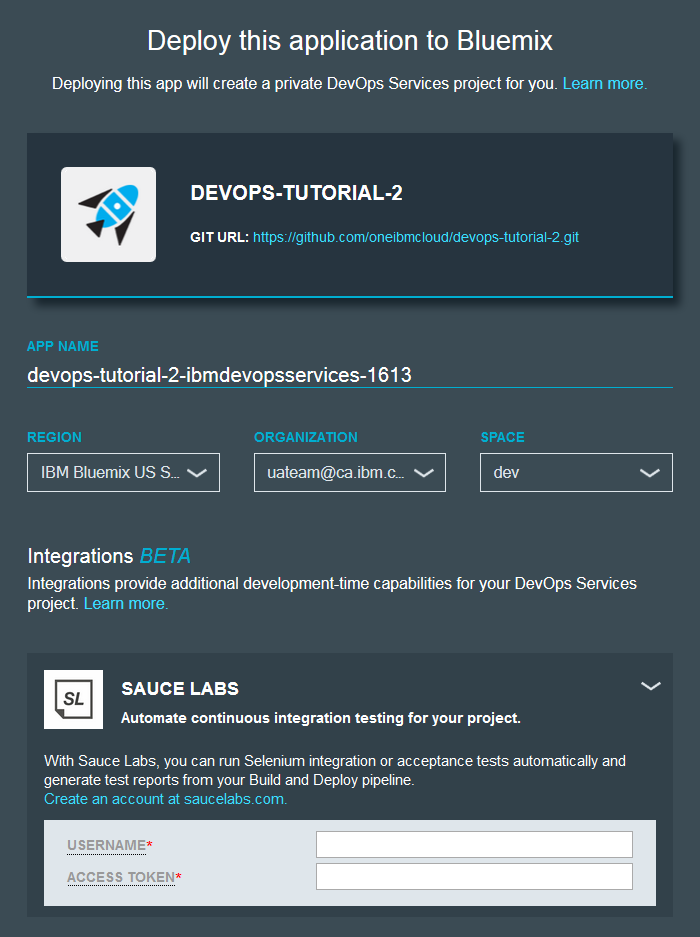
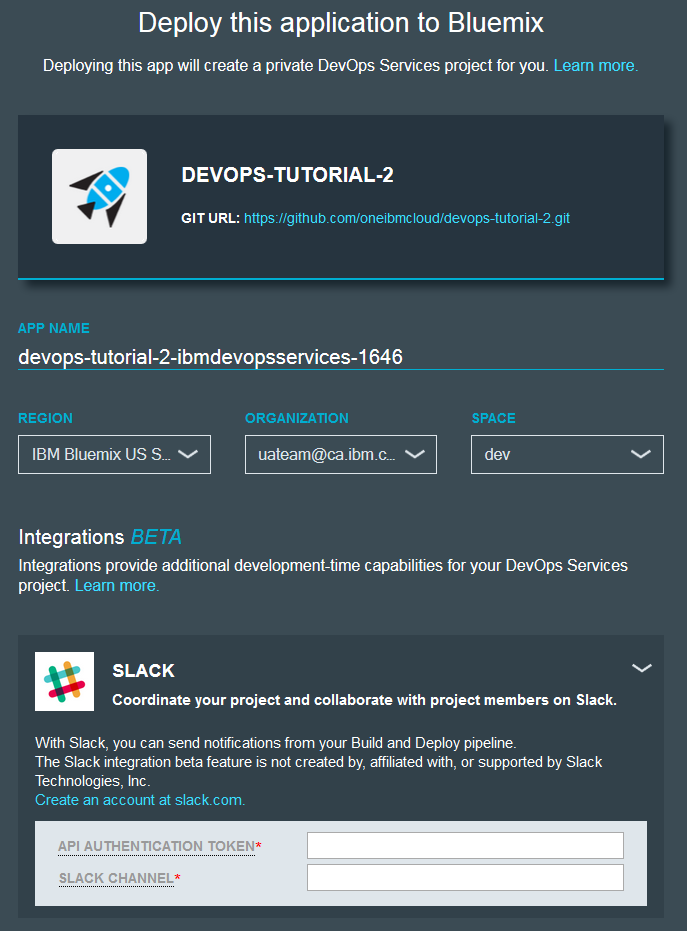
Sidecar doc updates.

diff --git a/tutorials/index.md b/tutorials/index.md
@@ -35,7 +35,7 @@ Track and plan the work for a project by creating work items, tracking a backlog
 In a sample project that you fork to your space, create a pipeline that you can use to build and deploy a Java app to Bluemix.
 <hr style="border-width:1px;margin-top:1em;margin-bottom:0em">
 <h4>
-<a href="/tutorials/integrations_ui"><strong>Integrate Sauce Labs and Slack with a Bluemix DevOps Services project BETA </strong></a> (15 minutes)</h4>
+<a href="/tutorials/integrations_ui"><strong>Automate integrations with DevOps Services BETA </strong></a> (15 minutes)</h4>
 <h6><em>A tutorial about configuring Sauce Labs and Slack integrations with your DevOps Services project </em></h6>
 Deploy a copy of a sample app that is managed by an IBM Bluemix DevOps Services toolchain. The toolchain is preconfigured with Sauce Labs and Slack integrations and with DevOps Services features, such as the Track & Plan feature, the web integrated development environment (Web IDE), the Build & Deploy pipeline, and Git for source control.
 <hr style="border-width:1px;margin-top:1em;margin-bottom:0em">

diff --git a/tutorials/integrations_ui/index.md b/tutorials/integrations_ui/index.md
@@ -1,6 +1,6 @@
-#Integrate Sauce Labs and Slack with a Bluemix DevOps Services project <em><span style="color: #35b2d5">BETA</span></em>
+#Automate integrations with DevOps Services <em><span style="color: #35b2d5">BETA</span></em>
 
-######Last modified: 13 October 2015
+######Last modified: 15 October 2015
 
 Time: 15 minutes 
 
@@ -51,7 +51,7 @@ The toolchain also integrates Slack messaging into the DevOps Services pipeline.
 <a name='app_details'></a>
 ## Fork and set up the app
 
-1. In the [DevOps Tutorial Application](https://github.com/oneibmcloud/devops-tutorial-2), click <img class="inline" src="./images/deploy-button.png"  alt="Deploy to Bluemix"> to fork the sample into DevOps Services. 
+1. In the [DevOps toolchain sample app](https://github.com/oneibmcloud/devops-tutorial-2), click <img class="inline" src="./images/deploy-button.png"  alt="Deploy to Bluemix"> to fork the sample into DevOps Services. 
 2. [Log in to Bluemix](http://bluemix.net/) to start the Deploy to Bluemix flow.
 3. Click **App Details**. 
 ![App Details page][1]

diff --git a/docs/integrations/saucelabs_auto/index.md b/docs/integrations/saucelabs_auto/index.md
@@ -1,6 +1,6 @@
 # Integrating Sauce Labs with Bluemix DevOps Services <em><span style="color: #35b2d5">BETA</span></em>
 
-###### Last updated: 07 October 2015
+###### Last updated: 15 October 2015
 
 Sauce Labs provides automated functional tests that run Java™ or JavaScript tests against your web or mobile app as part of a continuous delivery process. You can integrate Sauce Labs with your IBM&reg; Bluemix&trade; DevOps Services project so that a Sauce Labs test suite can run as a test job in your Build &amp; Deploy pipeline. These tests can provide valuable flow control for your project as they act as gates to prevent the deployment of bad code..
 
